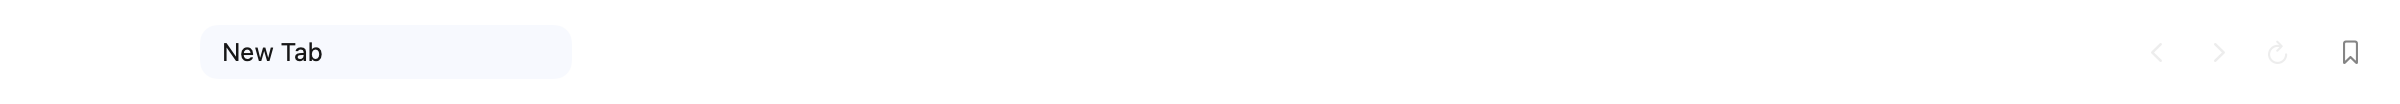
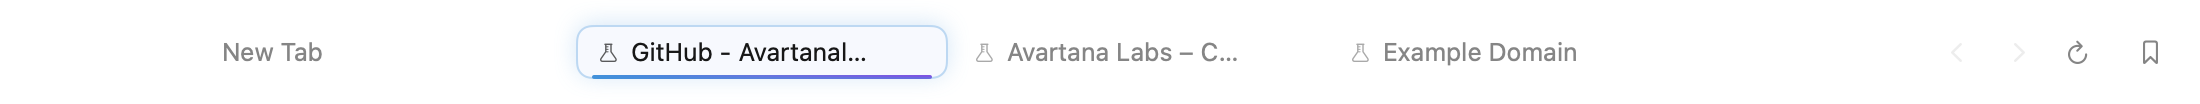
docs: refresh the interface screenshots from the 0.0.5 build
- Starting page, tab strip, sidebar and a rendered page recaptured from
  the current build: pill tabs, the glass omnibox, the AETHER repo
- Drop the stale example.com and Search-era What's New shots

diff --git a/README.md b/README.md
@@ -67,8 +67,8 @@ Measured on this Mac (Apple Silicon, release build):
 | :---: | :---: |
 | ![Tabs in a row](docs/screenshots/aether_tab_strip.png) | ![Tabs in the sidebar](docs/screenshots/aether_sidebar_column.png) |
 | Tabs in a row | Tabs down the side |
-| ![A page rendered by WebKit](docs/screenshots/aether_window_with_page.png) | ![What's new after an update](docs/screenshots/aether_whats_new.png) |
-| A page, rendered by WebKit | What's new after an update |
+
+![A page rendered by WebKit](docs/screenshots/aether_window_with_page.png)
 
 ## Building
 
